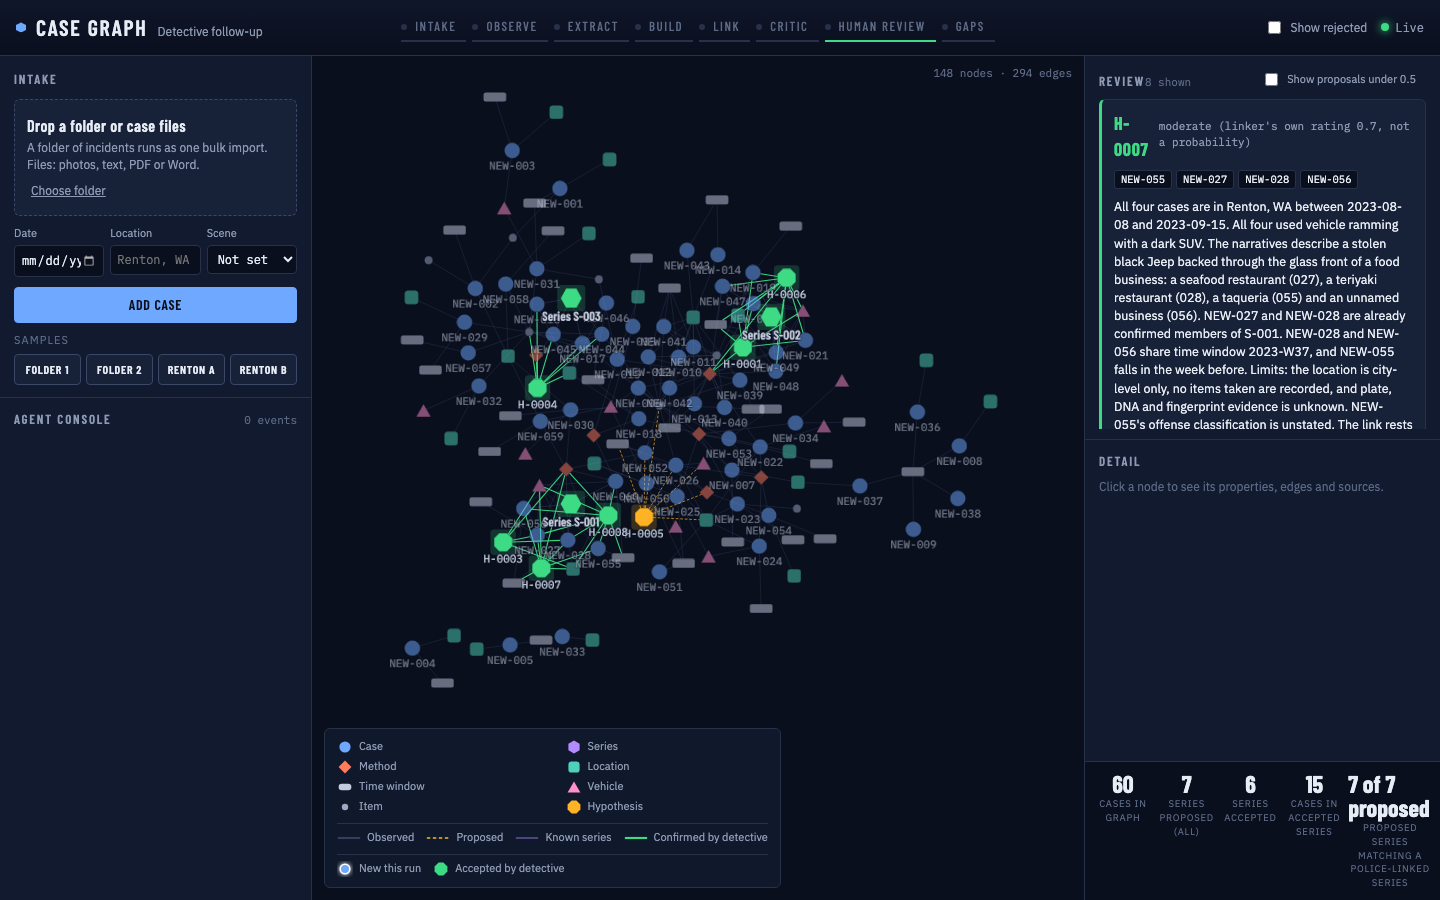
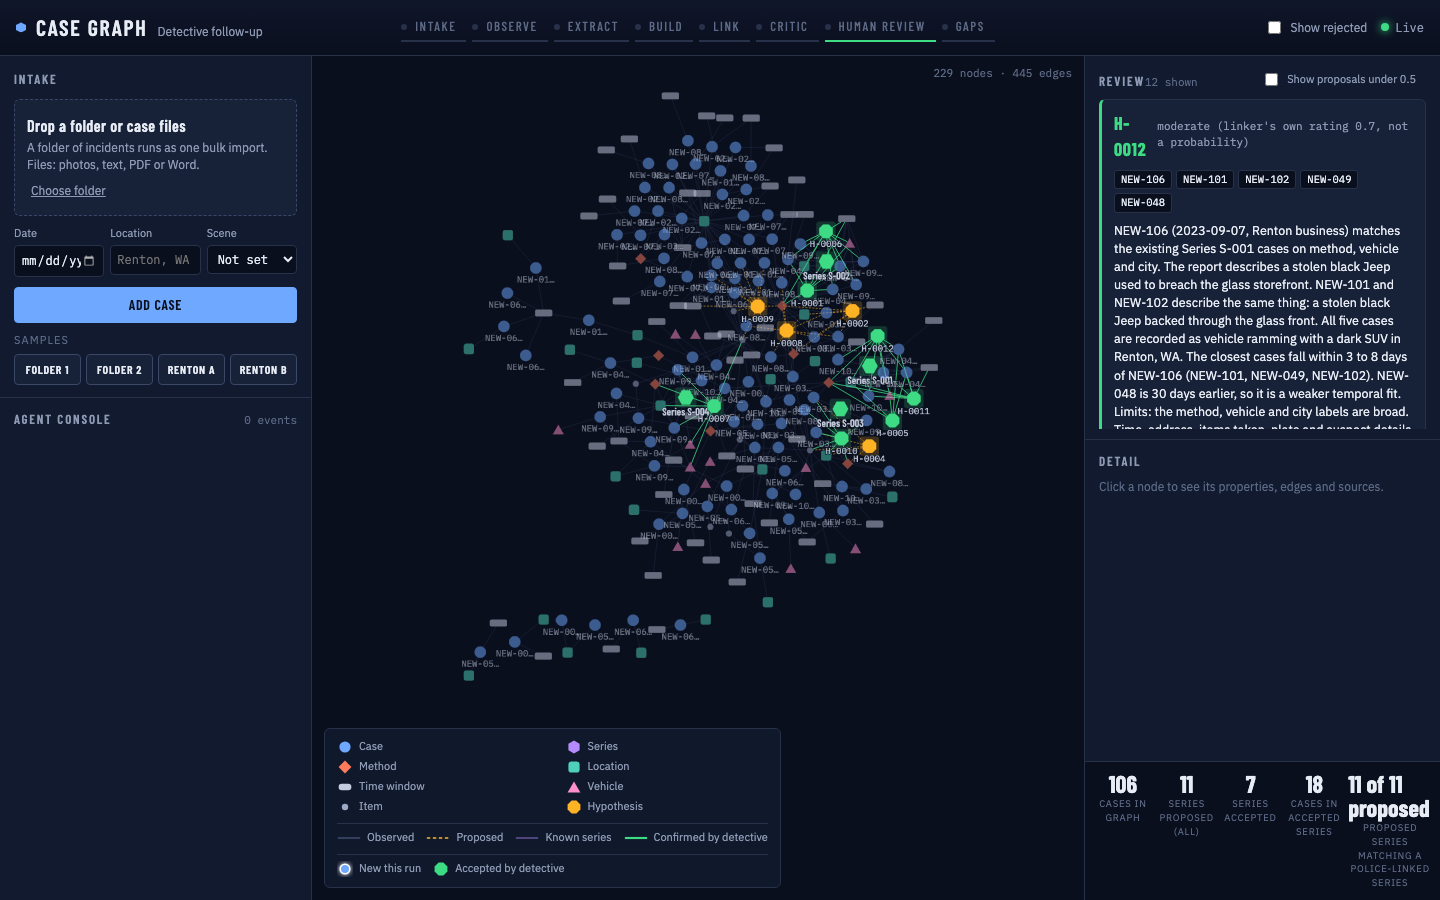
Rewrite the demo runbook from the final validation run

diff --git a/docs/demo-runbook.md b/docs/demo-runbook.md
@@ -1,33 +1,50 @@
 # Demo runbook: two folders and Renton
 
-Timings are from a real run on the Claude CLI path (haiku extraction). Hypothesis ids and wording differ between runs, so find each one by the series it links.
+Every timing and number below comes from one full run on the real Claude CLI path. Hypothesis ids (H-0001 and so on) and wording change between runs, so find each proposal by the series it links, not by id.
 
 ## Before you start
-1. `bin/dev`, open http://127.0.0.1:8000/. The graph must be empty (see Reset below).
-2. Window at 1440 wide. Open the agent console.
+1. Reset to empty (see Rehearsal), then run `bin/dev` and open http://127.0.0.1:8000/. The graph must show 0 cases and "0 events" in the agent console.
+2. Browser window 1440 wide. Open the agent console and the review panel on the right.
+3. Do not click anything for the first 10 seconds after a folder starts. The graph is still arranging itself.
 
 ## Script
 
 | Step | Click | Expected | Say |
 |---|---|---|---|
-| 1 | Folder 1 | 30 cases appear; about 90s to the last case, finder ends at about 110s. Camera stays wide, graph re-lays out every few seconds. | "These are 30 reports from different departments, dropped in as a folder. Nobody has told the system which ones belong together." |
-| 2 | Wait for "Finder reviewed 5 clusters" in the console | 3 proposals. Strip reads "agrees with public record: 3 of 3". | "The system grouped cases that look alike, then asked an analyst agent and a critic agent to argue it. Three groups survived." |
-| 3 | Accept the Renton restaurant rammings (2 cases, 0.55) | Cases pull into a series node, camera eases back out. | "Two restaurants, glass front rammed by a stolen dark SUV, five weeks apart. I take that." |
-| 4 | Accept the New Orleans commercial burglaries (3 cases, 0.50, white Nissan Xterra) | Second series forms. | "Three forced doors in four days and the same white Xterra. Thin, but worth owning." |
-| 5 | Reject the New Canaan pair (2 cases, 0.50) | Hypothesis greyed out. | "Same town, jewellery, upstairs entry, but the entry field says not reported. I will not sign off on that yet." |
-| 6 | Folder 2 | 29 more cases; about 110s to finder end. Six clusters reviewed, 4 new proposals. | "Now a second batch arrives. Watch whether the first findings hold." |
-| 7 | Accept the larger Renton proposal (5 cases, 0.70) and the larger New Orleans proposal (6 cases, 0.60) | Existing series absorb the new members (still 3 series nodes, not 5); cases covered goes from 5 to 14 after also accepting the New Canaan group of 4 (0.60). | "The new reports join the series I already accepted. The New Canaan pair I rejected comes back with two more cases, and now the pattern is there." |
-| 8 | Renton A (single case) | About 75s. One proposal linking the new case to the five Renton cases. | "A single new report comes in on its own. It lands next to the Renton series." |
-| 9 | Accept it | Camera closes in on the cluster, then eases out. Strip: 6 accepted, 6 of 6 agree with public record, 15 cases covered. | "A fifth rammed storefront. This is the series, built from reports that arrived separately." |
+| 1 | Folder 1 | 53 cases appear one by one. Last case at about 98s. Review ends at about 155s. | "Fifty three reports from different departments, dropped in as one folder. Nobody has told the system which belong together." |
+| 2 | Wait for "Finder reviewed 8 clusters and found 5 hypotheses" | 5 proposals. First ones show at about 115s. Strip: "5 of 5 proposed" match the police record. | "The system grouped reports that look alike. An analyst agent argued each group and a critic agent challenged it. Five groups survived." |
+| 3 | Accept the Renton restaurants (2 cases, 0.60, critic holds) | Series node forms. Next steps appear in the console 10 to 15s later (12 items). | "Two restaurants, glass front rammed by a stolen black Jeep, five weeks apart. Strong method, same vehicle. I take that." |
+| 4 | Accept the New Orleans businesses (3 cases, 0.60, critic holds) | Second series node. Strip: 2 accepted, 5 cases covered. | "Three forced doors in five days and the same white Nissan Xterra each time. I take that too." |
+| 5 | Reject the Long Beach commercial group (4 cases, 0.55, critic weak) | Hypothesis greys out. Strip: "4 of 4 proposed". | "Four Long Beach businesses, forced front door, cash or electronics. That describes half the burglaries in any city. The critic says the evidence is generic and I agree. Not yet." |
+| 6 | Leave Lower Moreland (3 cases, 0.60, weak) and New Canaan (2 cases, 0.55, weak) pending | Both stay amber. | "These two I park. The critic says the evidence is thin, and I want more before I sign." |
+| 7 | Folder 2 | 52 more cases (105 total). Last case at about 87s. Review ends at about 157s. 6 new proposals, strip "10 of 10". | "A second batch arrives. The question is whether the first findings hold and what the new reports add." |
+| 8 | Accept Renton (4 cases, 0.70, holds), New Orleans (6 cases, 0.60, holds), New Canaan (4 cases, 0.60, holds) and Rochester bicycle thefts (3 cases, 0.55, holds) | Series nodes stay at 4, not 7. Existing series absorb the new members. Strip: 6 accepted, 17 cases covered. | "The new reports join the series I already own. New Canaan was thin with two homes. With four, second floor entry and jewellery both repeat, and the critic now agrees. Rochester is new: a thief on a bicycle, three businesses." |
+| 9 | Leave Lower Moreland (6 cases, 0.60, weak) and Long Beach commercial (6 cases, 0.50, weak) pending | Both stay amber. | "Bigger groups, but the shared facts are still ordinary. Leave them." |
+| 10 | Renton A | About 70s. One proposal, 0.72, critic holds, linking the new case to four Renton cases (5 in total). | "One new report arrives alone, from a camera still and a short note. Watch where it lands." |
+| 11 | Accept it | Camera closes in on the Renton cluster, then eases out. Strip: 7 accepted, "11 of 11 proposed", 18 cases covered, 4 of 14 series touched. | "A fifth rammed storefront, the same Jeep method. This series was built from reports that arrived separately." |
 
-Critic verdict was "weak" on every proposal in this run. Say so: the critic is there to show what is missing, not to approve.
+## What to accept, what to reject
+- **Accept** proposals the critic marks "holds". In this run all of them agreed with the police record: Renton, New Orleans, New Canaan (four homes) and Rochester.
+- **Reject** the Long Beach commercial group of 4. It rests on a forced front door and cash or electronics, which are common. The critic said weak for that reason.
+- **Be honest on a weak true link.** The Long Beach group, New Canaan with two homes and Lower Moreland all matched the police record, yet the critic marked them weak. Do not claim the critic was wrong. Say: "The critic flags thin evidence and the detective decides."
+- **Leave pending** anything weak that you do not want to reject. Pending proposals do not count as accepted.
 
-## Final numbers from the validation run
-- Folder 1: 30 cases, 3 hypotheses, 3 of 3 agree, 108s.
-- Folder 2: 59 cases total, 4 new hypotheses, 6 of 6 agree, 113s.
-- After Renton A: 60 cases, 7 proposed, 6 accepted, 6 of 6 agree, 15 cases covered, 3 of 14 known series touched.
+## Final numbers from this run
+- Tests: 127 passed.
+- Folder 1: 53 cases, 5 hypotheses, 154.6s. Accepted 2, rejected 1, pending 2.
+- Folder 2: 105 cases, 6 more hypotheses, 157.0s. Accepted 4 more, pending 4 in total.
+- Renton A: 106 cases, 1 hypothesis, 69.6s.
+- Final: 11 proposed, 11 agree. 7 accepted, 7 agree. 18 cases covered. 4 of 14 known series touched. 4 series nodes.
 
 ## Rehearsal
-- Fast import skips the Claude CLI and reads each incident's `record.json`: press Shift+F then 1 or 2 on the page, or POST `/api/bulk` with `{"folder": "folder-1", "fast": true}`. The console says "fast import". Folder 1 took 40s and gave 4 proposals (not the same set as the real path), so use it for rehearsing clicks, not for quoting numbers.
-- Reset to empty: stop the server, `rm runs/graph.json runs/audit.jsonl`, run `bin/dev` again.
-- If you run a second server on another port, start it with `CASE_GRAPH_API=http://127.0.0.1:<port>`. The analyst agent reaches the graph through that variable and defaults to port 8000.
+- Fast import skips the Claude CLI and reads each incident's `record.json`. On the page press Shift+F, then 1 or 2 within two seconds. Or POST `/api/bulk` with `{"folder": "folder-1", "fast": true}`. The console says "fast import".
+- What differs on the fast path: folder 1 took 58s, not 155s. It gave 7 proposals, not 5, and strip read "6 of 7" instead of "5 of 5". The extra groups were Fairfax Hybla Valley (3 cases, 0.70, holds), New Canaan (3 cases), and a 12 case Long Beach group (weak). Use it to rehearse clicks, never to quote numbers.
+- Reset to empty: stop the server, delete `runs/graph.json` and `runs/audit.jsonl`, run `bin/dev` again.
+- A second server on another port must start with `CASE_GRAPH_API=http://127.0.0.1:<port>`. Without it the analyst agent queries the server on port 8000.
+
+## If something goes wrong
+- **A run.error line in the console.** Say "one of the agents timed out, I will run it again". Reset and start the folder again. If it fails twice, press Shift+F then 1 or 2 and tell the audience this is a stored extraction.
+- **A hypothesis does not appear.** Wait until the console says "Finder reviewed N clusters". Proposals can arrive up to 40s before that message. If a series you planned to accept is missing after the message, accept the other holds and talk through the missing one as "the system chose not to propose this one yet".
+- **The Linker proposes nothing for Renton A.** Wait the full 90s. If the run finishes with 0 hypotheses, say "the new report is too thin to link on its own" and move to the final numbers. Run Renton A again once only.
+- **How long to wait.** Folder runs: 3 minutes before you decide anything is wrong, 6 minutes before you move on. Renton A: 2 minutes.
+- **Different numbers.** Counts may differ by one or two proposals from this run. Accept by series and critic verdict, not by count.
